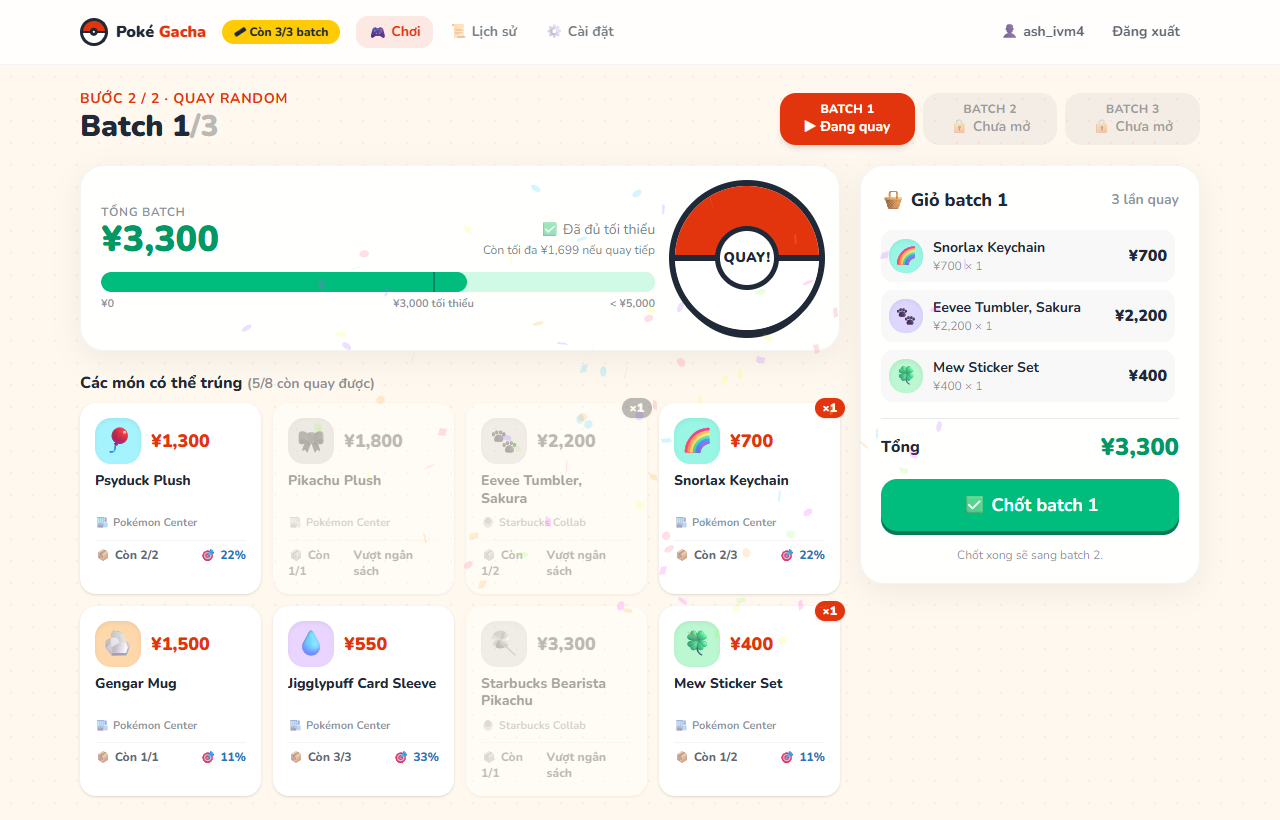
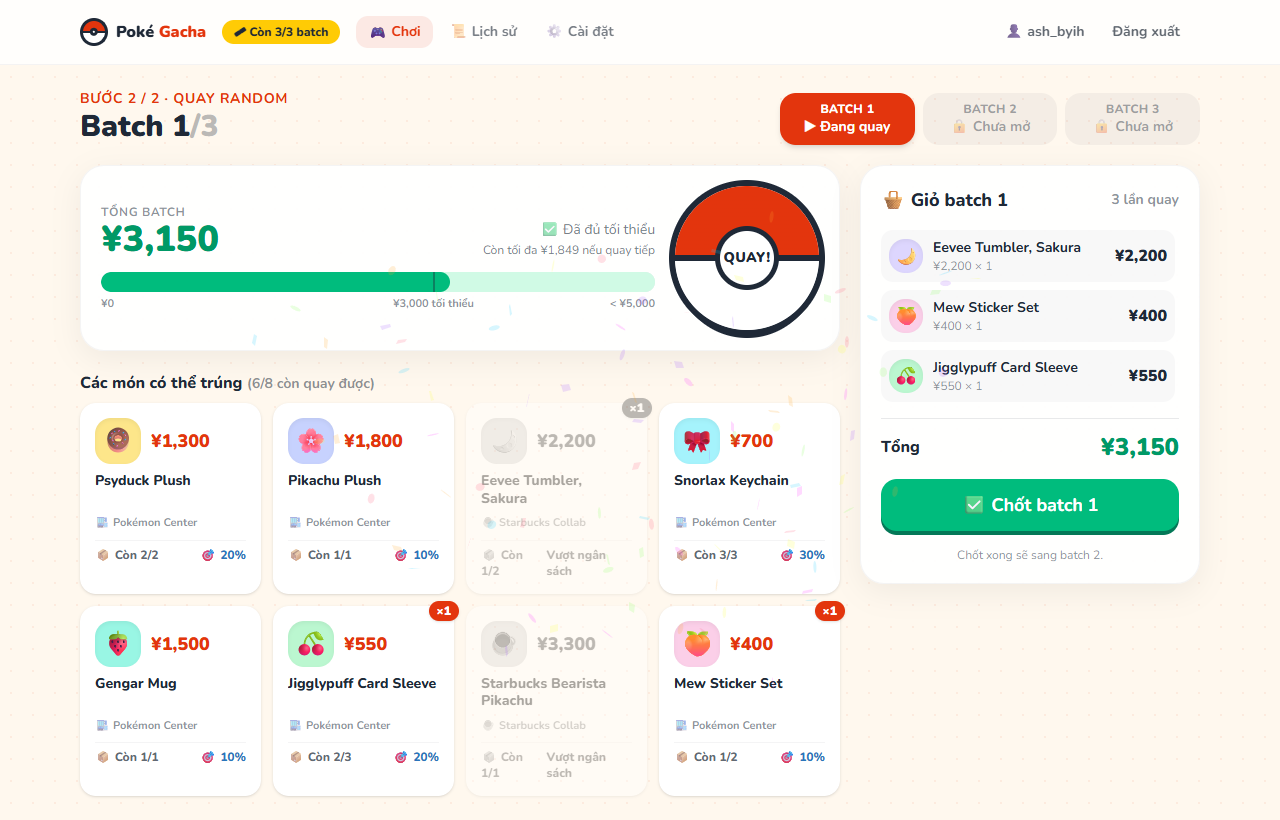
Update game rules, add guide for nontech user file and readme

diff --git a/src/components/play-board.tsx b/src/components/play-board.tsx
@@ -23,6 +23,35 @@ import { Alert, Button, Card, Modal } from "./ui";
 
 type CloseMode = "commit" | "early";
 
+const ROULETTE_STEPS = 30;
+
+/** Tỉ lệ trúng dạng phần trăm; dưới 1% ghi "<1%" để không bị hiểu nhầm là 0%. */
+function formatChance(p: number): string {
+  const pct = p * 100;
+  return pct > 0 && pct < 1 ? "<1%" : `${Math.round(pct)}%`;
+}
+
+/**
+ * Thứ tự các thẻ được làm sáng, luôn kết thúc ở `targetId`. Ít thẻ thì chạy vòng tuần tự;
+ * nhiều thẻ (tối đa 100) thì nhảy ngẫu nhiên ~30 bước để mỗi lần quay không kéo dài quá vài giây.
+ */
+function rouletteSequence(ids: number[], targetId: number, reduce: boolean): number[] {
+  const n = ids.length;
+  if (reduce || n === 1) return reduce ? [targetId] : Array.from({ length: 8 }, () => targetId);
+  if (n <= 12) {
+    const loops = Math.max(2, Math.ceil(24 / n));
+    const steps = loops * n + ids.indexOf(targetId);
+    return Array.from({ length: steps + 1 }, (_, s) => ids[s % n]);
+  }
+  const seq: number[] = [];
+  while (seq.length < ROULETTE_STEPS) {
+    const next = ids[Math.floor(Math.random() * n)];
+    if (next !== seq[seq.length - 1] && next !== targetId) seq.push(next);
+  }
+  seq.push(targetId);
+  return seq;
+}
+
 export function PlayBoard({ initialView }: { initialView: GameView }) {
   const router = useRouter();
   const [view, setView] = useState(initialView);
@@ -61,13 +90,12 @@ export function PlayBoard({ initialView }: { initialView: GameView }) {
 
   /** Ô sáng chạy qua các item đủ điều kiện, chậm dần rồi dừng đúng item server đã chọn. */
   async function roulette(ids: number[], targetId: number) {
-    const n = ids.length;
     const reduce = window.matchMedia("(prefers-reduced-motion: reduce)").matches;
-    const loops = reduce ? 0 : n === 1 ? 8 : Math.max(2, Math.ceil(24 / n));
-    const steps = loops * n + ids.indexOf(targetId);
-    for (let s = 0; s <= steps; s++) {
-      setHighlight(ids[s % n]);
-      const t = steps === 0 ? 1 : s / steps;
+    const sequence = rouletteSequence(ids, targetId, reduce);
+    const last = sequence.length - 1;
+    for (let s = 0; s <= last; s++) {
+      setHighlight(sequence[s]);
+      const t = last === 0 ? 1 : s / last;
       await sleep(40 + 320 * t ** 3);
     }
     await sleep(350);
@@ -215,7 +243,7 @@ export function PlayBoard({ initialView }: { initialView: GameView }) {
                         <span className="text-poke-red">Vượt ngân sách</span>
                       ) : (
                         <span className="text-poke-blue" title="Cơ hội trúng ở lần quay tới">
-                          🎯 {Math.round((left / tickets) * 100)}%
+                          🎯 {formatChance(left / tickets)}
                         </span>
                       )}
                     </div>

diff --git a/tests/rules-csv.test.ts b/tests/rules-csv.test.ts
@@ -35,9 +35,10 @@ describe("rules", () => {
 });
 
 describe("assignIcons", () => {
-  it("20 item có 20 icon khác nhau", () => {
-    const looks = assignIcons(20);
-    expect(new Set(looks.map((l) => l.icon)).size).toBe(20);
+  it("36 item đầu có emoji khác nhau; 100 item có 100 cặp (emoji, màu) khác nhau", () => {
+    const looks = assignIcons(100);
+    expect(new Set(looks.slice(0, 36).map((l) => l.icon)).size).toBe(36);
+    expect(new Set(looks.map((l) => l.icon + l.color)).size).toBe(100);
   });
 });
 
@@ -112,9 +113,11 @@ describe("parseItemsFile", () => {
     expect(r2).toEqual({ ok: false, errors: [expect.stringMatching(/^Dòng 3: trùng với item "B" đã có/)] });
   });
 
-  it("file rỗng hoặc quá 20 item bị từ chối", () => {
-    expect(parseItemsFile("name,price,category,url,quantity\n").ok).toBe(false);
-    const rows = Array.from({ length: 21 }, (_, i) => `I${i},100,Pokemon Center,https://a.jp,1`);
-    expect(parseItemsFile(["name,price,category,url,quantity", ...rows].join("\n")).ok).toBe(false);
+  it("file rỗng hoặc quá 100 item bị từ chối", () => {
+    const header = "name,price,category,url,quantity";
+    expect(parseItemsFile(`${header}\n`).ok).toBe(false);
+    const rows = Array.from({ length: 101 }, (_, i) => `I${i},100,Pokemon Center,https://a.jp,1`);
+    expect(parseItemsFile([header, ...rows].join("\n")).ok).toBe(false);
+    expect(parseItemsFile([header, ...rows.slice(0, 100)].join("\n")).ok).toBe(true);
   });
 });

diff --git a/src/lib/icons.ts b/src/lib/icons.ts
@@ -1,7 +1,9 @@
 // Icon chung (emoji + màu nền) thay cho hình Pokémon chính thức, tránh vấn đề bản quyền khi public.
+// Số icon phải là bội số của số màu để công thức ghép cặp trong assignIcons không bị trùng.
 const ICONS = [
   "⚡", "🔥", "💧", "🍃", "🌙", "⭐", "🎀", "🍓", "🧸", "🎁", "🍩", "🌸",
   "❄", "🪨", "👻", "🐉", "🍀", "🎈", "🧁", "🌈", "🍭", "🔮", "🐾", "☕",
+  "🍙", "🍑", "🌻", "🦋", "🐚", "🍄", "🎵", "💎", "🪁", "🍒", "🌊", "🎂",
 ];
 const COLORS = [
   "#FDE68A", "#FECACA", "#BFDBFE", "#BBF7D0", "#DDD6FE", "#FBCFE8",
@@ -17,12 +19,15 @@ function shuffle<T>(arr: T[], random: () => number): T[] {
   return a;
 }
 
-/** Gán icon ngẫu nhiên, không trùng nhau (tối đa 24 item). */
+/**
+ * Gán icon ngẫu nhiên. 36 item đầu có emoji khác nhau; từ item 37 trở đi emoji lặp lại
+ * nhưng đổi màu nền, nên mỗi cặp (emoji, màu) vẫn là duy nhất (tối đa 36 × 12 = 432 item).
+ */
 export function assignIcons(count: number, random: () => number = Math.random) {
   const icons = shuffle(ICONS, random);
   const colors = shuffle(COLORS, random);
   return Array.from({ length: count }, (_, i) => ({
     icon: icons[i % icons.length],
-    color: colors[i % colors.length],
+    color: colors[(i + Math.floor(i / icons.length)) % colors.length],
   }));
 }

diff --git a/tests/game.test.ts b/tests/game.test.ts
@@ -128,10 +128,18 @@ describe("game flow", () => {
     expect(again.view.batches[1].spins).toHaveLength(1);
   });
 
+  it("chấp nhận đúng 100 item, mỗi item một kiểu icon", async () => {
+    const u = await newUser();
+    const v = await startGame(h.db, u.id, Array.from({ length: 100 }, (_, i) => item(`I${i}`, 100 + i)));
+    expect(v.items).toHaveLength(100);
+    expect(new Set(v.items.map((i) => i.icon + i.color)).size).toBe(100);
+    expect((await spin(h.db, u.id)).view.batches[0].spins).toHaveLength(1);
+  });
+
   it("từ chối danh sách không hợp lệ", async () => {
     const u = await newUser();
     await expect(startGame(h.db, u.id, [])).rejects.toThrow();
-    await expect(startGame(h.db, u.id, Array.from({ length: 21 }, (_, i) => item(`I${i}`, 100)))).rejects.toThrow();
+    await expect(startGame(h.db, u.id, Array.from({ length: 101 }, (_, i) => item(`I${i}`, 100)))).rejects.toThrow();
     await expect(startGame(h.db, u.id, [item("Too pricey", 5000)])).rejects.toThrow();
     await expect(startGame(h.db, u.id, [item("Dup", 100), item("Dup", 900, 3)])).rejects.toThrow(/trùng/);
     expect((await getGameView(h.db, u.id)).status).toBe("setup");

diff --git a/src/lib/rules.ts b/src/lib/rules.ts
@@ -4,7 +4,7 @@ export const CATEGORIES = ["Pokemon Center", "Pokemon Starbucks Collab"] as cons
 export type Category = (typeof CATEGORIES)[number];
 
 export const MIN_ITEMS = 1;
-export const MAX_ITEMS = 20;
+export const MAX_ITEMS = 100;
 
 /** Tổng batch phải >= mức này mới được "chốt" bình thường. */
 export const BATCH_MIN_JPY = 3000;

diff --git a/README.md b/README.md
@@ -1,6 +1,6 @@
 # Poké Gacha Picker
 
-Web game quay ngẫu nhiên quà Pokémon Center / Pokémon Starbucks Collab. Người chơi nhập 1–20 item, quay thành 3 batch (mỗi batch từ 3,000¥ đến dưới 5,000¥) rồi chọn 1 batch.
+Web game quay ngẫu nhiên quà Pokémon Center / Pokémon Starbucks Collab. Người chơi nhập 1–100 item, quay thành 3 batch (mỗi batch từ 3,000¥ đến dưới 5,000¥) rồi chọn 1 batch.
 
 > 👤 **Người chơi / người không rành kỹ thuật:** đọc [HUONG-DAN-SU-DUNG.md](HUONG-DAN-SU-DUNG.md) (hướng dẫn từng bước, có hình). README này dành cho người phát triển và triển khai web.
 
@@ -11,7 +11,7 @@ Web game quay ngẫu nhiên quà Pokémon Center / Pokémon Starbucks Collab. Ng
 | Luật | Chi tiết |
 |---|---|
 | Tài khoản | Username bắt buộc, email tùy chọn. Mặc định hiện form đăng nhập, có link sang đăng ký; đăng ký xong chuyển về đăng nhập với username điền sẵn. Đăng nhập bằng username hoặc email. Không có quên mật khẩu. Form dùng Server Actions nên vẫn chạy khi JS chưa tải. |
-| Danh sách item | 1–20 item. Giá 1–4,999¥ (item ≥ 5,000¥ không bao giờ quay trúng được). Số lượng 1–99. Link phải là http(s). Danh sách lưu nháp trên trình duyệt; bấm **Bắt đầu quay** mới ghi DB và khóa lại. |
+| Danh sách item | 1–100 item. Giá 1–4,999¥ (item ≥ 5,000¥ không bao giờ quay trúng được). Số lượng 1–99. Link phải là http(s). Danh sách lưu nháp trên trình duyệt; bấm **Bắt đầu quay** mới ghi DB và khóa lại. |
 | Chống trùng | Hai item trùng khi cùng **tên + link + category** (tên/link bỏ khoảng trắng thừa, không phân biệt hoa thường; xem `itemKey()`). Chặn ở form thêm/sửa, ở import (trùng trong file hoặc trùng danh sách hiện có) và ở server (`itemListSchema`). |
 | Import | `.csv`/`.txt`, dòng đầu `name,price,category,url,quantity`. Sai 1 dòng (kể cả dòng trùng) là từ chối cả file. File mẫu tải được trong app hoặc ở [docs/huong-dan/mau-danh-sach.csv](docs/huong-dan/mau-danh-sach.csv). |
 | Số lượng | = số lần tối đa item được trúng **trong một batch**, **reset mỗi batch**. Item hết số lượng thì không quay được nữa trong batch đó. |
@@ -32,6 +32,8 @@ Không cần cài Postgres: khi không có `DATABASE_URL`, app dùng PGlite lưu
 
 Muốn thử trên điện thoại cùng mạng wifi: mở `http://<IP-máy-tính>:3000` (dev server đã cho phép IP mạng nội bộ `10.*`, `192.168.*`, `172.*` trong `next.config.ts`).
 
+File test nhanh: [docs/test-data/test-10-items.csv](docs/test-data/test-10-items.csv) (10 item hợp lệ, đủ 2 category, có tên chứa dấu phẩy và tên tiếng Nhật), upload ở màn nhập item.
+
 Ảnh trong hướng dẫn sử dụng nằm ở `docs/huong-dan/`. Khi đổi giao diện, nhớ chụp lại cho khớp.
 
 ## Deploy public (Vercel + Neon, miễn phí)
@@ -51,7 +53,7 @@ Mỗi lần push lên nhánh chính, Vercel tự deploy lại. Khi đổi schema
 ## Cấu trúc
 
 ```
-src/lib/rules.ts        luật chơi & hằng số (3000/5000/3 batch/20 item), số lượng theo batch, bốc phiếu
+src/lib/rules.ts        luật chơi & hằng số (3000/5000/3 batch/100 item), số lượng theo batch, bốc phiếu
 src/lib/game.ts         logic server: start / spin / closeBatch / chooseBatch (transaction + khóa dòng)
 src/lib/csv.ts          đọc & kiểm tra file import
 src/lib/schemas.ts      zod schema dùng chung client/server, chống trùng item

diff --git a/HUONG-DAN-SU-DUNG.md b/HUONG-DAN-SU-DUNG.md
@@ -20,7 +20,7 @@ Mẹo: sau khi mở, hãy **lưu trang vào Bookmark**, hoặc trên điện tho
 
 | | |
 |---|---|
-| 🎁 **Danh sách quà** | Bạn nhập từ **1 đến 20 món**. Mỗi món gồm: tên, giá (yên), loại, link bán, số lượng. |
+| 🎁 **Danh sách quà** | Bạn nhập từ **1 đến 100 món**. Mỗi món gồm: tên, giá (yên), loại, link bán, số lượng. |
 | 🚫 **Không trùng** | Không được có 2 món cùng **tên + link + loại**. |
 | 🧺 **Batch** | Mỗi lần quay trúng 1 món và món đó vào giỏ. Một giỏ hợp lệ có tổng tiền **từ 3,000¥ đến dưới 5,000¥**. |
 | 📦 **Số lượng** | Một món chỉ trúng được **tối đa bằng số lượng** bạn nhập, trong **mỗi** giỏ. Sang giỏ mới thì số lượng đầy lại. |
@@ -108,7 +108,7 @@ Cách này tiện khi bạn có sẵn danh sách dài.
 
 ### Sửa hoặc xóa món
 
-Mỗi món trong danh sách có nút **✏ Sửa** và **🗑 Xóa**. Góc trên có bộ đếm, ví dụ **8/20**, cho biết bạn đã nhập bao nhiêu món.
+Mỗi món trong danh sách có nút **✏ Sửa** và **🗑 Xóa**. Góc trên có bộ đếm, ví dụ **8/100**, cho biết bạn đã nhập bao nhiêu món.
 
 ![Danh sách quà](docs/huong-dan/07-danh-sach.png)
 
